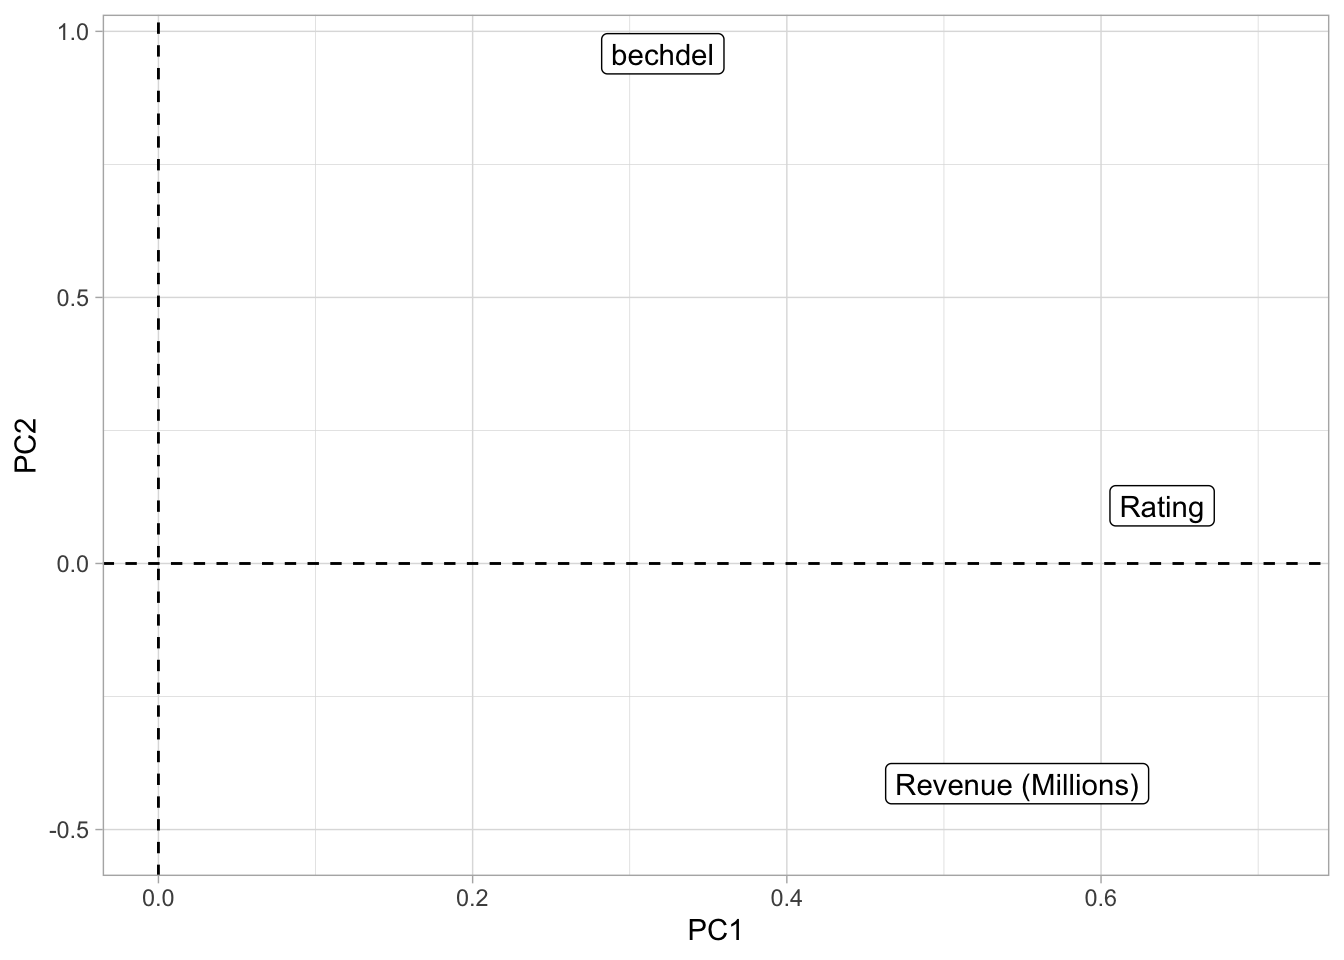
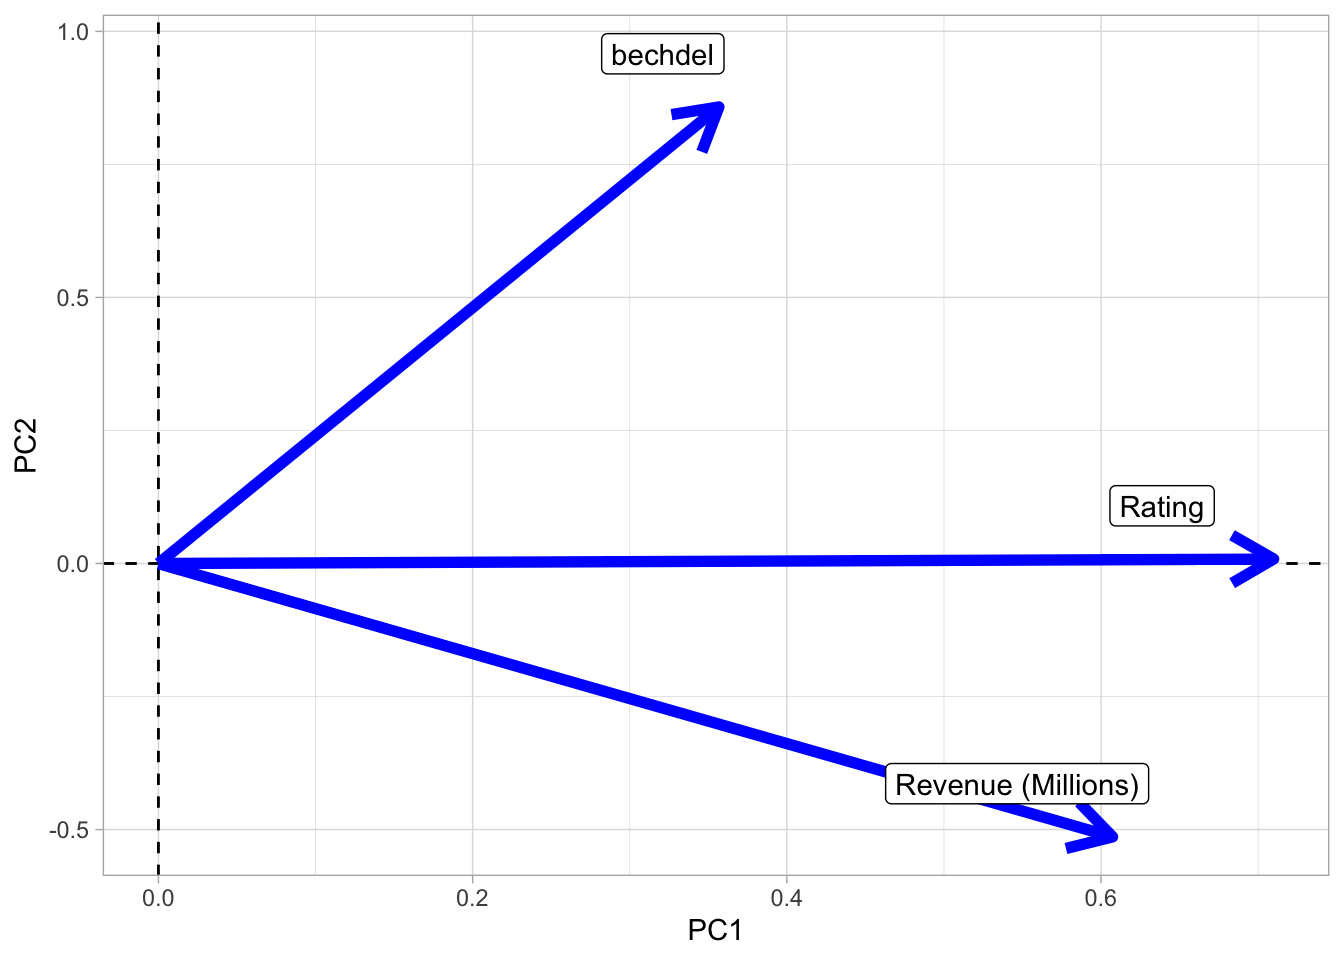
“Change”

diff --git a/project/project1.html b/project/project1.html
@@ -1,7 +1,7 @@
 ---
 title: 'Evaluating Movies based on the Bechdel Test and Movie Ratings'
 author: "Ruth Raichur rr46673"
-date: '9-17-2020'
+date: '2020-10-19T22:55:05-04:00'
 output:
   html_document:
     toc: yes
@@ -193,7 +193,7 @@ ggplot() + geom_bar(aes(y=varprop, x=1:3), stat=&quot;identity&quot;) + xlab(&qu
   scale_x_continuous(breaks=1:10)</code></pre>
 <p><img src="public/project/project1_files/figure-html/unnamed-chunk-14-1.png" width="672" style="display: block; margin: auto;" /></p>
 <pre class="r"><code>#plotting a biplot#
-bechdel_pca$loadings[1:3, 1:2] %&gt;% as.data.frame %&gt;% rownames_to_column %&gt;% ggplot() + geom_hline(aes(yintercept=0), lty=2) +   geom_vline(aes(xintercept=0), lty=2) + ylab(&quot;PC2&quot;) + xlab(&quot;PC1&quot;) +   geom_segment(aes(x=0, y=0, xend=Comp.1, yend=Comp.2), arrow=arrow(), col= &quot;light blue&quot;, size = 2) +  geom_label(aes(x=Comp.1*.9, y=Comp.2 + .1, label=rowname)) + theme_light()</code></pre>
+bechdel_pca$loadings[1:3, 1:2] %&gt;% as.data.frame %&gt;% rownames_to_column %&gt;% ggplot() + geom_hline(aes(yintercept=0), lty=2) +   geom_vline(aes(xintercept=0), lty=2) + ylab(&quot;PC2&quot;) + xlab(&quot;PC1&quot;) +   geom_segment(aes(x=0, y=0, xend=Comp.1, yend=Comp.2), arrow=arrow(), col= &quot;blue&quot;, size = 2) +  geom_label(aes(x=Comp.1*.9, y=Comp.2 + .1, label=rowname)) + theme_light()</code></pre>
 <p><img src="public/project/project1_files/figure-html/unnamed-chunk-14-2.png" width="672" style="display: block; margin: auto;" /></p>
 <pre class="r"><code>#histogram shows we need to keep all three#
 #graphing PC1 against PC2 and PC2 against PC3#

diff --git a/project/project1/index.html b/project/project1/index.html
@@ -61,7 +61,7 @@
         </div>
         <div class="blog-title">
           <h4>
-          January 1, 0001 
+          October 19, 2020 
             &nbsp;&nbsp;
             
           </h4>
@@ -251,7 +251,7 @@ ggplot() + geom_bar(aes(y=varprop, x=1:3), stat=&quot;identity&quot;) + xlab(&qu
   scale_x_continuous(breaks=1:10)</code></pre>
 <p><img src="/project/project1_files/figure-html/unnamed-chunk-14-1.png" width="672" style="display: block; margin: auto;" /></p>
 <pre class="r"><code>#plotting a biplot#
-bechdel_pca$loadings[1:3, 1:2] %&gt;% as.data.frame %&gt;% rownames_to_column %&gt;% ggplot() + geom_hline(aes(yintercept=0), lty=2) +   geom_vline(aes(xintercept=0), lty=2) + ylab(&quot;PC2&quot;) + xlab(&quot;PC1&quot;) +   geom_segment(aes(x=0, y=0, xend=Comp.1, yend=Comp.2), arrow=arrow(), col= &quot;light blue&quot;, size = 2) +  geom_label(aes(x=Comp.1*.9, y=Comp.2 + .1, label=rowname)) + theme_light()</code></pre>
+bechdel_pca$loadings[1:3, 1:2] %&gt;% as.data.frame %&gt;% rownames_to_column %&gt;% ggplot() + geom_hline(aes(yintercept=0), lty=2) +   geom_vline(aes(xintercept=0), lty=2) + ylab(&quot;PC2&quot;) + xlab(&quot;PC1&quot;) +   geom_segment(aes(x=0, y=0, xend=Comp.1, yend=Comp.2), arrow=arrow(), col= &quot;blue&quot;, size = 2) +  geom_label(aes(x=Comp.1*.9, y=Comp.2 + .1, label=rowname)) + theme_light()</code></pre>
 <p><img src="/project/project1_files/figure-html/unnamed-chunk-14-2.png" width="672" style="display: block; margin: auto;" /></p>
 <pre class="r"><code>#histogram shows we need to keep all three#
 #graphing PC1 against PC2 and PC2 against PC3#

diff --git a/resume_files/RuthRaichur_Resume.html b/resume_files/RuthRaichur_Resume.html
@@ -1,0 +1,28 @@
+---
+title: "RuthRaichur_Resume"
+output: html_document
+---
+
+<link href="/rmarkdown-libs/anchor-sections/anchor-sections.css" rel="stylesheet" />
+<script src="/rmarkdown-libs/anchor-sections/anchor-sections.js"></script>
+
+
+<div id="r-markdown" class="section level2">
+<h2>R Markdown</h2>
+<p>This is an R Markdown document. Markdown is a simple formatting syntax for authoring HTML, PDF, and MS Word documents. For more details on using R Markdown see <a href="http://rmarkdown.rstudio.com" class="uri">http://rmarkdown.rstudio.com</a>.</p>
+<p>When you click the <strong>Knit</strong> button a document will be generated that includes both content as well as the output of any embedded R code chunks within the document. You can embed an R code chunk like this:</p>
+<pre class="r"><code>summary(cars)</code></pre>
+<pre><code>##      speed           dist       
+##  Min.   : 4.0   Min.   :  2.00  
+##  1st Qu.:12.0   1st Qu.: 26.00  
+##  Median :15.0   Median : 36.00  
+##  Mean   :15.4   Mean   : 42.98  
+##  3rd Qu.:19.0   3rd Qu.: 56.00  
+##  Max.   :25.0   Max.   :120.00</code></pre>
+</div>
+<div id="including-plots" class="section level2">
+<h2>Including Plots</h2>
+<p>You can also embed plots, for example:</p>
+<p><img src="static/resume_files/RuthRaichur_Resume_files/figure-html/pressure-1.png" width="672" /></p>
+<p>Note that the <code>echo = FALSE</code> parameter was added to the code chunk to prevent printing of the R code that generated the plot.</p>
+</div>

diff --git a/project/index.html b/project/index.html
@@ -59,12 +59,12 @@
               <div class="row">
                 <div class="col-sm-4 col-md-4 col-lg-4">
                   <h5 style="text-align: right">
-                    January 1, 0001
+                    November 23, 2020
                   </h5>
                  </div>
                  <div class="col-sm-8 col-md-8 col-lg-8">
                    <h5 style="text-align: left">
-                    <strong><a href="/project/project1/">Evaluating Movies based on the Bechdel Test and Movie Ratings</a></strong>
+                    <strong><a href="/project/project2/">College Majors Success Rates</a></strong>
                   </h5>
                 </div>
               </div>
@@ -72,12 +72,12 @@
               <div class="row">
                 <div class="col-sm-4 col-md-4 col-lg-4">
                   <h5 style="text-align: right">
-                    January 1, 0001
+                    October 19, 2020
                   </h5>
                  </div>
                  <div class="col-sm-8 col-md-8 col-lg-8">
                    <h5 style="text-align: left">
-                    <strong><a href="/project/project2/">College Majors Success Rates</a></strong>
+                    <strong><a href="/project/project1/">Evaluating Movies based on the Bechdel Test and Movie Ratings</a></strong>
                   </h5>
                 </div>
               </div>

diff --git a/index.html b/index.html
@@ -56,9 +56,9 @@
           <img class="img-circle" src="/img/myprofile.jpeg" alt="Responsive image">
         </div>
         <h3>I'm <strong>Ruth Raichur</strong>, a Student and Undergraduate Researcher at The University of Texas at Austin.</h3>
-        <h3>I love all things Genetics and <a href="https://demo.nurlan.co/hugo-vitae/">Research</a>.</h3>
+        <h3>I love all things genetics and <a href="/post/">research</a>.</h3>
         <h3>Have a look at some of my working <a href="/projects/"> projects</a>.</h3>
-        <h3>For more check out my academic &amp; professional <a href="https://demo.nurlan.co/hugo-vitae/">resume</a>.</h3>
+        <h3>For more check out my academic &amp; professional <a href="/resume/">resume</a>.</h3>
         <h3>Contact me at <a href="http://instagram.com/ruthraichur">@ruthraichur</a> or by <a href="mailto:ruth.raichur@utexas.edu">email</a>.</h3>
         <div class="social">
   <ul class="social-links">

diff --git a/resume/index.html b/resume/index.html
@@ -74,11 +74,10 @@
 <script src="/rmarkdown-libs/anchor-sections/anchor-sections.js"></script>
 
 
-<center>
-<object data="/resume_files/RuthRaichur_Resume.pdf" type="application/pdf" >
+<object data="/resume_files/RuthRaichur_Resume.pdf" type="application/pdf" style="width: 100%;
+    height: 600px;">
 <embed src="/resume_files/RuthRaichur_Resume.pdf" type="application/pdf" style="min-height:1000vh;width:100%" />
 </object>
-</center>
 
               <hr>
 

diff --git a/resume.html b/resume.html
@@ -10,8 +10,7 @@ hidediscus: true
 <script src="/rmarkdown-libs/anchor-sections/anchor-sections.js"></script>
 
 
-<center>
-<object data="/resume_files/RuthRaichur_Resume.pdf" type="application/pdf" >
+<object data="/resume_files/RuthRaichur_Resume.pdf" type="application/pdf" style="width: 100%;
+    height: 900px;">
 <embed src="/resume_files/RuthRaichur_Resume.pdf" type="application/pdf" style="min-height:1000vh;width:100%" />
 </object>
-</center>

diff --git a/project/project2/index.html b/project/project2/index.html
@@ -61,7 +61,7 @@
         </div>
         <div class="blog-title">
           <h4>
-          January 1, 0001 
+          November 23, 2020 
             &nbsp;&nbsp;
             
           </h4>

diff --git a/project/project2.html b/project/project2.html
@@ -1,7 +1,7 @@
 ---
 title: 'College Majors Success Rates'
 author: "Ruth Raichur rr46673"
-date: '11-25-2020'
+date: '2020-11-23T22:55:05-04:00'
 output:
   html_document:
     toc: yes
